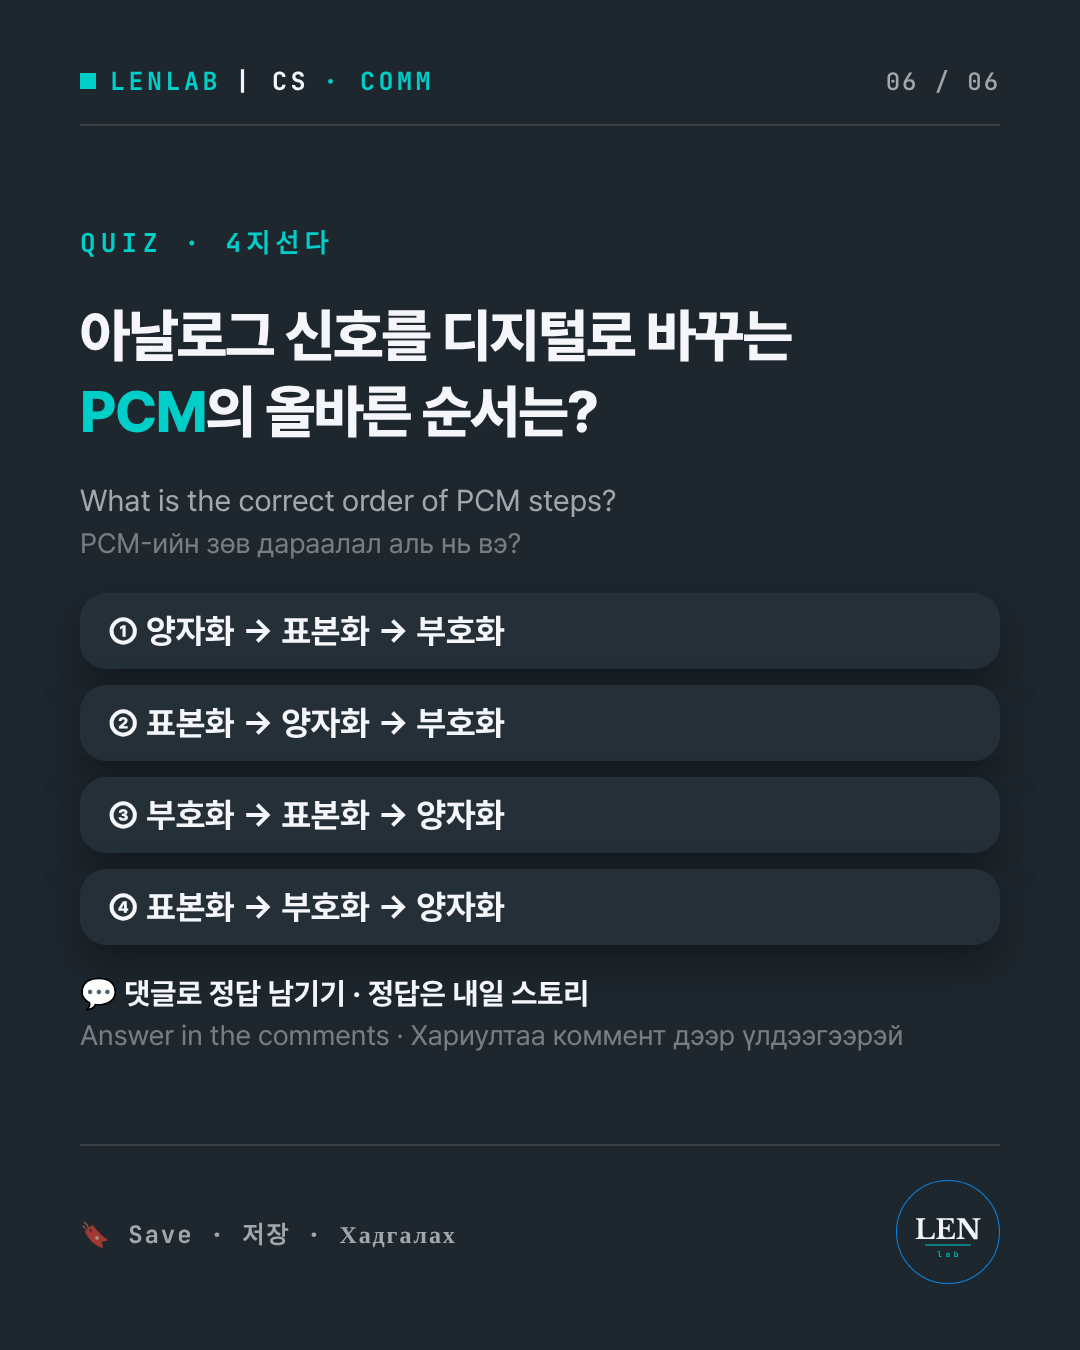
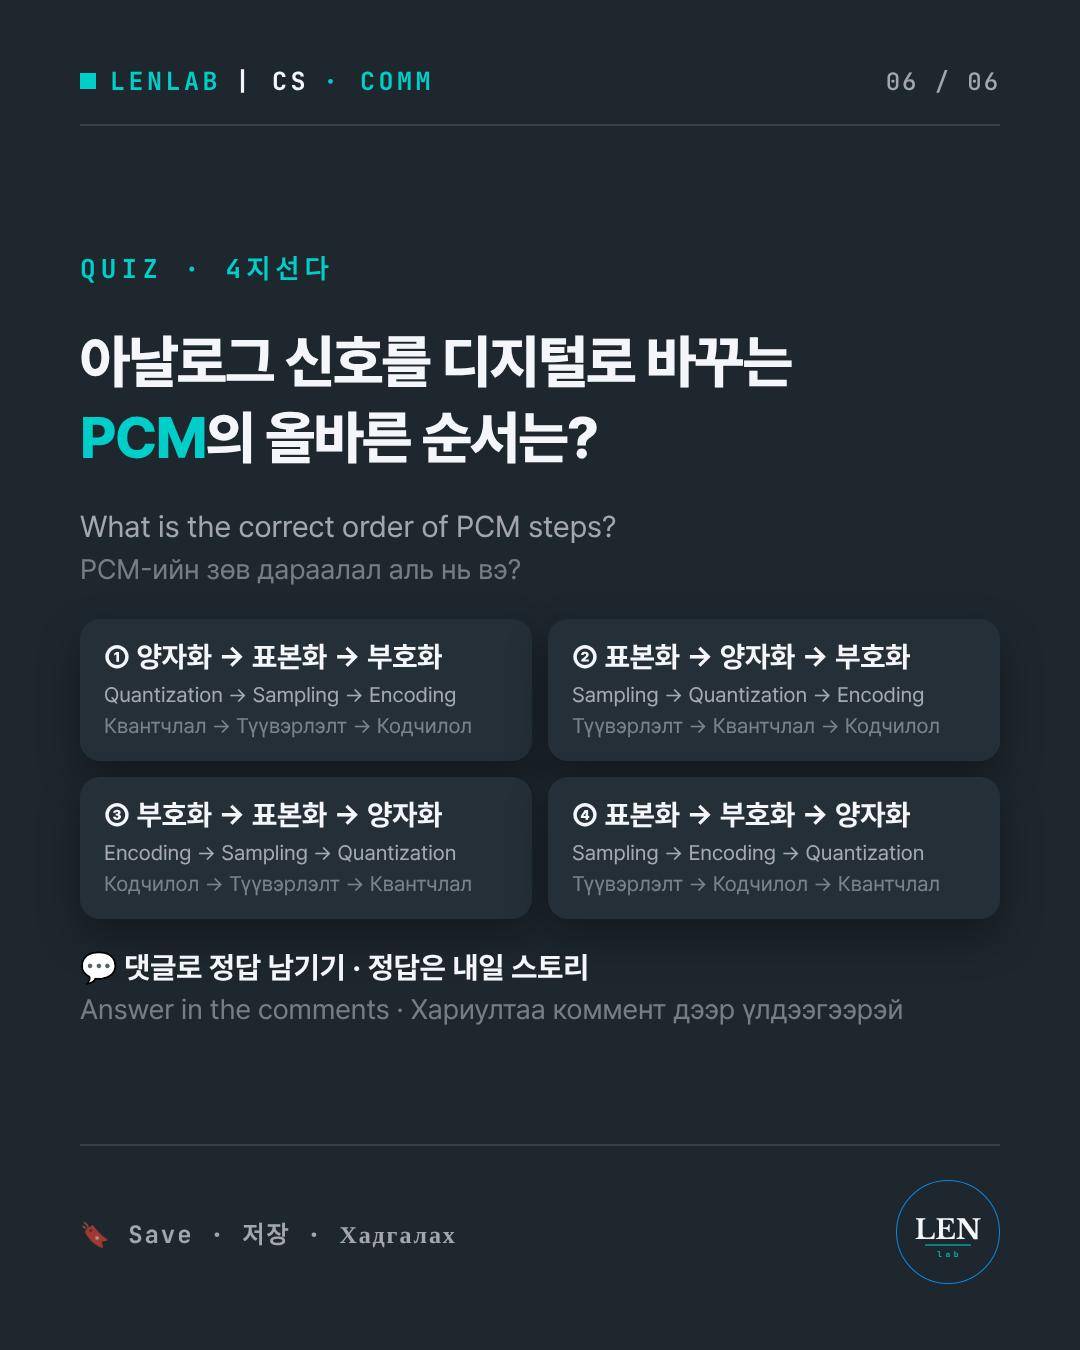
Fix #015 COMM: add EN/MN to quiz options

diff --git a/posts/2026-11-04_015_COMM_analog-vs-digital-signal/slides.html b/posts/2026-11-04_015_COMM_analog-vs-digital-signal/slides.html
@@ -96,11 +96,11 @@ fs, L = <span class="cyan">8</span>, <span class="cyan">8</span>   <span style="
     <div class="lang" style="font-size:26px">QUIZ · 4지선다</div>
     <div style="font-size:58px;font-weight:800;line-height:1.3;letter-spacing:-.03em">아날로그 신호를 디지털로 바꾸는<br><span class="cyan">PCM</span>의 올바른 순서는?</div>
     <div><div class="en">What is the correct order of PCM steps?</div><div class="mn">PCM-ийн зөв дараалал аль нь вэ?</div></div>
-    <div style="display:flex;flex-direction:column;gap:16px;font-size:34px;font-weight:700;text-align:left">
-      <div class="panel" style="padding:18px 28px">① 양자화 → 표본화 → 부호화</div>
-      <div class="panel" style="padding:18px 28px">② 표본화 → 양자화 → 부호화</div>
-      <div class="panel" style="padding:18px 28px">③ 부호화 → 표본화 → 양자화</div>
-      <div class="panel" style="padding:18px 28px">④ 표본화 → 부호화 → 양자화</div>
+    <div style="display:grid;grid-template-columns:1fr 1fr;gap:16px;text-align:left">
+      <div class="panel" style="padding:20px 24px;border-radius:20px"><div style="font-size:29px;font-weight:700">① 양자화 → 표본화 → 부호화</div><div class="en" style="font-size:21px;margin-top:6px">Quantization → Sampling → Encoding</div><div class="mn" style="font-size:21px">Квантчлал → Түүвэрлэлт → Кодчилол</div></div>
+      <div class="panel" style="padding:20px 24px;border-radius:20px"><div style="font-size:29px;font-weight:700">② 표본화 → 양자화 → 부호화</div><div class="en" style="font-size:21px;margin-top:6px">Sampling → Quantization → Encoding</div><div class="mn" style="font-size:21px">Түүвэрлэлт → Квантчлал → Кодчилол</div></div>
+      <div class="panel" style="padding:20px 24px;border-radius:20px"><div style="font-size:29px;font-weight:700">③ 부호화 → 표본화 → 양자화</div><div class="en" style="font-size:21px;margin-top:6px">Encoding → Sampling → Quantization</div><div class="mn" style="font-size:21px">Кодчилол → Түүвэрлэлт → Квантчлал</div></div>
+      <div class="panel" style="padding:20px 24px;border-radius:20px"><div style="font-size:29px;font-weight:700">④ 표본화 → 부호화 → 양자화</div><div class="en" style="font-size:21px;margin-top:6px">Sampling → Encoding → Quantization</div><div class="mn" style="font-size:21px">Түүвэрлэлт → Кодчилол → Квантчлал</div></div>
     </div>
     <div><div style="font-size:30px;font-weight:700">💬 댓글로 정답 남기기 · 정답은 내일 스토리</div><div class="mn" style="margin-top:4px">Answer in the comments · Хариултаа коммент дээр үлдээгээрэй</div></div>
   </main>

diff --git a/posts/2026-11-04_015_COMM_analog-vs-digital-signal/story.html b/posts/2026-11-04_015_COMM_analog-vs-digital-signal/story.html
@@ -4,7 +4,7 @@
   <main class="center">
     <div class="lang" style="font-size:26px"><span class="ko">어제 퀴즈 정답</span> · QUIZ ANSWER</div>
     <div><div class="q">아날로그 신호를 디지털로 바꾸는<br>PCM의 올바른 순서는?</div><div class="en" style="margin-top:8px">What is the correct order of PCM steps?</div></div>
-    <div class="ans"><div class="big" style="font-size:72px;white-space:nowrap;margin-bottom:22px">② 표본화 → 양자화 → 부호화</div><div class="lbl"><span class="ko">정답</span> · ANSWER · ХАРИУЛТ</div></div>
+    <div class="ans"><div class="big" style="font-size:72px;white-space:nowrap;margin-bottom:10px">② 표본화 → 양자화 → 부호화</div><div class="en" style="font-size:26px;margin-bottom:2px">Sampling → Quantization → Encoding</div><div class="mn" style="font-size:24px;margin-bottom:18px">Түүвэрлэлт → Квантчлал → Кодчилол</div><div class="lbl"><span class="ko">정답</span> · ANSWER · ХАРИУЛТ</div></div>
     <div><div class="why">시간을 끊고, 크기를 단계로 맞추고,<br><span class="cyan">2진수</span>로 바꾼다</div><div class="en" style="margin-top:12px">Sample in time, quantize the values, then encode them as binary.</div><div class="mn" style="margin-top:6px">Түүвэрлэж, квантчлаад, дараа нь хоёртын кодоор кодчилно.</div></div>
     <div class="cta">👉 오늘의 새 카드는 피드에서<div class="mn" style="margin-top:4px;font-weight:400">New card on the feed · Шинэ карт фийд дээр</div></div>
   </main>

diff --git a/WORKFLOW.md b/WORKFLOW.md
@@ -70,6 +70,7 @@ bash setup.sh            # 폰트(npm) 설치 → FONTS 경로 출력
 4. **코드·예시** — 10줄 이내 코드(과목에 맞는 언어) 또는 수식/표/구체 예시 + 포인트 2~3개 (KO + `.mn`에 EN·MN)
 5. **헷갈리는 포인트** — panel 3~4개: 제목(KO · EN), 설명(KO), `.mn`(MN)
 6. **퀴즈** — O/X 또는 4지선다 1문제 (KO 크게 + EN + MN), 댓글 유도, footer `🔖 Save · 저장 · Хадгалах`
+   - 4지선다 보기가 한국어 문장이면 각 보기 아래에 `.en`·`.mn` 번역을 한 줄씩 넣는다 (2×2 grid 권장). Code·Data·O(n)처럼 언어와 상관없는 보기는 그대로 둔다. 스토리 `.ans`에도 같은 EN·MN 번역을 넣는다.
 - 헤더 태그: `LENLAB <span>| CS</span> · <TAG>`, 2~6장 meta는 `0N / 06`, footer 왼쪽 `#NNN`, 오른쪽 `{LOGO}`.
 - 색: 핵심어 `.blue`, 코드·포인트·정답 `.cyan`. 한 장에 강조색 1~2곳만.
 - 글자 크기는 001과 비슷하게(본문 28~36px, 제목 56~84px). 넘치면 글을 줄이고, 글자를 18px 이하로 줄이지 않는다.
